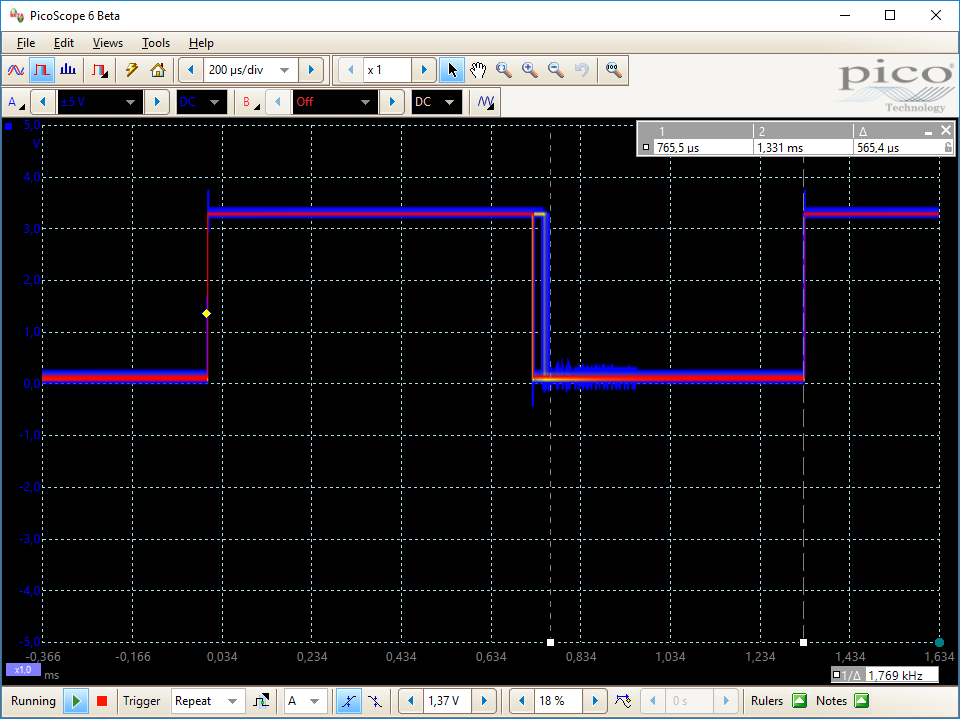
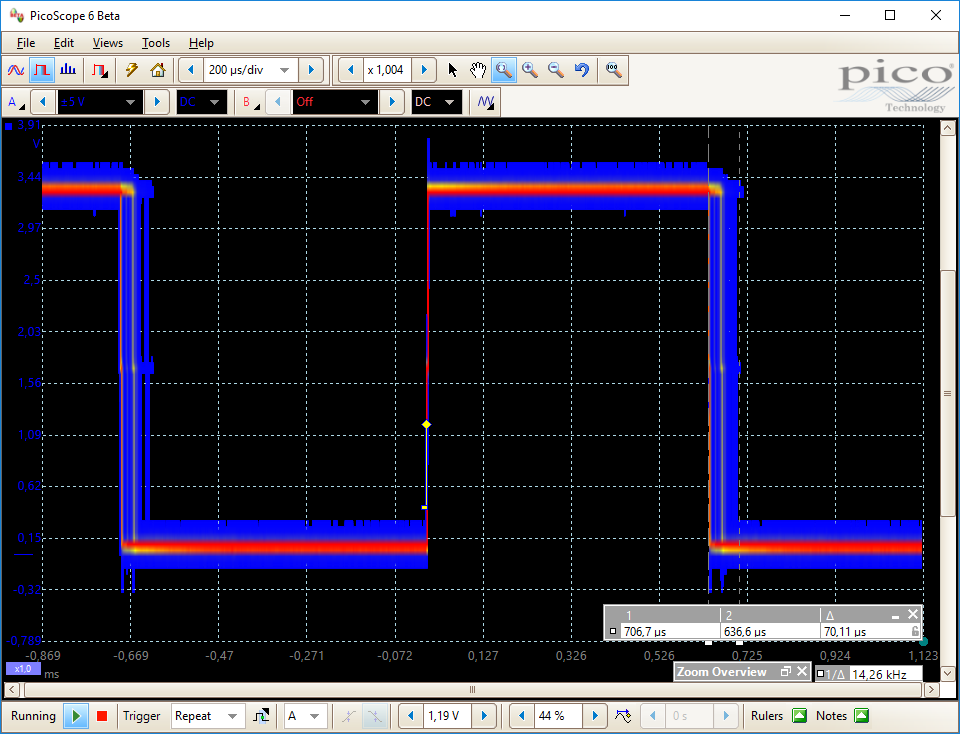
improved restart procedure to minimize Rx blindness, updated readme

diff --git a/ESP8266Can.cpp b/ESP8266Can.cpp
@@ -380,22 +380,24 @@ extern "C"
         /* make sure we didn't run only half a msec ago */
         if((this_exec_time - last_exec_time) < (160000000 / 2000))
         {
-            can->StopI2S();
+            can->RestartI2S();
             can->IntErrorCount++;
-            can->_rxRunning = false;
             return;
         }
-        
-        //GPIO_REG_WRITE(GPIO_OUT_W1TS_ADDRESS, _BV(can->LedPin));
+
+#ifdef ISR_TIMING        
+        GPIO_REG_WRITE(GPIO_OUT_W1TS_ADDRESS, _BV(can->LedPin));
+#endif
         
         /* wait, that should not happen? */
         if(!slc_intr_status)
         {
-            can->StopI2S();
+            can->RestartI2S();
             can->IntErrorCount++;
-            can->_rxRunning = false;
             return;
         }
+        
+        can->_rxRunning = true;
 
         /* the Tx interrupt handler, which is the data we RECEIVE. weird, ya. */
         if((slc_intr_status & SLC_TX_EOF_INT_ST))
@@ -423,14 +425,15 @@ extern "C"
         
         if(slc_intr_status)
         {
-            can->StopI2S();
+            can->RestartI2S();
             can->IntErrorCount++;
-            can->_rxRunning = false;
             return;
         }
         last_exec_time = getCycleCount();
         
-        //GPIO_REG_WRITE(GPIO_OUT_W1TC_ADDRESS, _BV(can->LedPin));
+#ifdef ISR_TIMING        
+        GPIO_REG_WRITE(GPIO_OUT_W1TC_ADDRESS, _BV(can->LedPin));
+#endif
     }
 }
 
@@ -473,10 +476,17 @@ void ESP8266Can::StartRx()
     
     memset(InterruptReceiveBuffers, 0x00, sizeof(InterruptReceiveBuffers));
     InitI2S();
-    StartI2S();
+    RestartI2S();
     _rxStarted = true;
-    _rxRunning = true;
     Serial.printf("Started\n");
+}
+
+void ESP8266Can::StopRx()
+{
+    StopI2S();
+    _rxStarted = false;
+    _rxRunning = false;
+    Serial.printf("Stopped\n");
 }
 
 void ESP8266Can::StartI2S()
@@ -491,6 +501,19 @@ void ESP8266Can::StopI2S()
 	/* stop transmission for both I2S_RX and SLC_TX */
 	CLEAR_PERI_REG_MASK(I2SCONF, I2S_I2S_RX_START);
 	CLEAR_PERI_REG_MASK(SLC_TX_LINK, SLC_TXLINK_START);
+    
+    _rxRunning = false;
+}
+
+void ESP8266Can::RestartI2S()
+{
+    StopI2S();
+    
+    /* configure the first descriptors */
+	CLEAR_SET_REG_POS(SLC_TX_LINK, 0, SLC_TXLINK_DESCADDR_MASK, I2SQueueTx);
+    CurrentQueueItem = I2SQueueTx;
+    
+    StartI2S();
 }
 
 void ESP8266Can::PrepareQueue(const char *name, struct slc_queue_item *queue, uint32_t queueLength, void *buffer, uint32_t bufferLength, uint32_t eof)
@@ -598,13 +621,6 @@ void ESP8266Can::Loop(void (*cbr)(uint16_t id, bool req, uint8_t length, uint8_t
         
         lastTime = millis();
         Serial.printf("[ESP8266Can] [%08d] Rx: %d, Tx: %d, Load: %d%%  |  RxQueueErr: %d, RxErr: %d, TxErr: %d  |  IRQs: %d, Timer: 0x%08X, Errors: %d\n", lastTime, RxSuccess, TxSuccess, BusLoadInternal, RxQueueOverflows, RxErrors(), TxErrors(), InterruptTxCount + InterruptRxCount, getCycleCount(), IntErrorCount);
-    }
-    
-    if(_rxStarted && !_rxRunning)
-    {
-        Serial.printf("[ESP8266Can] Restarting I2S\n");
-        StartRx();
-        Serial.printf("[ESP8266Can] Done\n");
     }
     
     /* dump CAN frames - to console for now */

diff --git a/ESP8266Can.h b/ESP8266Can.h
@@ -11,7 +11,7 @@
 #define CAN_RX_BUFFER_SIZE (14) /* worst case: 1+11+3+4+64+15+1+2+10 bits */
 
 #define CAN_BUFFER_SIZE    (2048)  
-#define CAN_BUFFER_COUNT   (4)
+#define CAN_BUFFER_COUNT   (2)
 
 
 /* error/status codes for SendMessage and internal functions */
@@ -42,13 +42,19 @@ class ESP8266Can
 {
 public:
     ESP8266Can(uint32_t rate, uint8_t gpio_tx, uint8_t gpio_rx);
+    ~ESP8266Can();
+    
+    void StartRx();
+    void StopRx();
+    void Loop(void (*cbr)(uint16_t id, bool req, uint8_t length, uint8_t *payload, bool ack));
+    can_error_t SendMessage(uint16_t id, uint8_t length, uint8_t *data, bool req_remote = false, bool self_ack = true);
+
+    /* internal, make them private somewhen. ISR accesses some of them. */
     void StartI2S();
     void StopI2S();
+    void RestartI2S();
     void InitI2S();
-    void StartRx();
-    void Loop(void (*cbr)(uint16_t id, bool req, uint8_t length, uint8_t *payload, bool ack));
-    ~ESP8266Can();
-    can_error_t SendMessage(uint16_t id, uint8_t length, uint8_t *data, bool req_remote = false, bool self_ack = true);
+    
     void BuildCanFrame(uint8_t *buffer, uint16_t id, uint8_t length, uint8_t *data);
     uint32_t DecodeCanFrame(uint8_t *buffer, uint16_t *id, uint8_t *length, uint8_t *data, bool *req_remote, bool *ack, bool onlyBasic);
     

diff --git a/ReadMe.md b/ReadMe.md
@@ -29,8 +29,7 @@ the reason why it is better done in ISR context.
 ![Interrupt timing: High means ISR is running](/images/ISR_timing.png?raw=true "Interrupt timing: High means ISR is running")
 
 The SLC TX interrupt (yeah, SLC's Tx is for I2S Rx) is firing every 1.33 msec and executes
-725µs (idle) or 765µs (message received) which results in a CPU load of approx 54-57% 
-just for the Rx path.
+635µs (idle) to 705µs (message received) which results in a CPU load of approx 47-52% just for the Rx path.
 
 The good thing, the ISR is very stable in it's execution time and always is within the specified limits.
 
